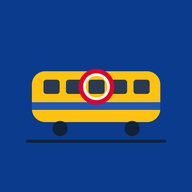
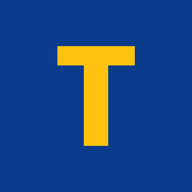
Add files via upload

Changed region(s): [[0.125, 0.2188, 0.875, 0.7812]]

diff --git a/diagnose.html b/diagnose.html
@@ -2,6 +2,8 @@
 <html lang="nl"><head>
 <meta charset="utf-8"><meta name="viewport" content="width=device-width, initial-scale=1"><meta name="robots" content="noindex">
 <title>Treinplek diagnose</title>
+<link rel="icon" type="image/png" sizes="32x32" href="diagnose-32.png">
+<link rel="apple-touch-icon" href="diagnose-180.png">
 <style>
 *{box-sizing:border-box}
 body{margin:0 auto;max-width:520px;padding:16px 16px 48px;font:16px/1.45 system-ui,-apple-system,sans-serif;background:#e8edf3;color:#10213a}
@@ -24,6 +26,8 @@ pre{white-space:pre-wrap;word-break:break-word;background:#fff;border-radius:14p
 <label for="st">Stationscode (voor knop 4)</label>
 <input id="st" value="UT" autocapitalize="characters" spellcheck="false">
 <button id="b4">4. Vertrektijden van dit station</button>
+<button class="licht" id="b5">5. Ruwe treinlijst van NS (zonder gegevens)</button>
+<button class="licht" id="b6">6. Ruwe treinlijst met mijn plek (20 km)</button>
 <h2>Resultaat</h2>
 <div id="status"></div>
 <pre id="uit">Nog niets getest.</pre>
@@ -67,5 +71,11 @@ const nr = () => $("nr").value.replace(/\D/g, "");
 $("b2").onclick = () => nr() ? test("Haltes van rit " + nr(), `/rit?nummer=${nr()}`) : toon(0, "Vul eerst een treinnummer in.");
 $("b3").onclick = () => nr() ? test("Samenstelling van trein " + nr(), `/trein?nummer=${nr()}`) : toon(0, "Vul eerst een treinnummer in.");
 $("b4").onclick = () => test("Vertrektijden " + $("st").value, `/vertrek?station=${encodeURIComponent($("st").value.trim().toUpperCase())}&maxJourneys=5`);
+$("b5").onclick = () => test("Ruwe treinlijst van NS", "/ruw");
+$("b6").onclick = () => {
+  const gebruik = (lat, lng, noot) => test("Ruwe treinlijst met plek" + noot, `/ruw?lat=${lat.toFixed(5)}&lng=${lng.toFixed(5)}&radius=20000&limit=50`);
+  if (!navigator.geolocation) return gebruik(52.0894, 5.1105, " (Utrecht)");
+  navigator.geolocation.getCurrentPosition(p => gebruik(p.coords.latitude, p.coords.longitude, ""), () => gebruik(52.0894, 5.1105, " (Utrecht, locatie geweigerd)"), {timeout: 15000});
+};
 $("kopieer").onclick = async () => { try { await navigator.clipboard.writeText($("uit").textContent); $("kopieer").textContent = "Gekopieerd"; setTimeout(() => $("kopieer").textContent = "Kopieer resultaat", 1500); } catch (_) { alert("Selecteer de tekst en kopieer hem zelf."); } };
 </script></body></html>

diff --git a/index.html b/index.html
@@ -10,7 +10,8 @@
 <meta name="apple-mobile-web-app-status-bar-style" content="black-translucent">
 <link rel="manifest" href="manifest.webmanifest">
 <link rel="apple-touch-icon" href="icon-180.png">
-<link rel="icon" type="image/png" href="icon-192.png">
+<link rel="icon" type="image/png" sizes="32x32" href="favicon-32.png">
+<link rel="icon" href="favicon.ico" sizes="any">
 <title>Waar zit ik in de trein?</title>
 <link rel="preconnect" href="https://fonts.googleapis.com">
 <link href="https://fonts.googleapis.com/css2?family=Barlow:wght@400;600&family=Barlow+Condensed:wght@600;700&display=swap" rel="stylesheet">

diff --git a/VERSIES.md b/VERSIES.md
@@ -12,14 +12,8 @@ Website: https://ns-trein.github.io/Zoeker/ (GitHub Pages)
 
 `index.html` (de app) · `sw.js` (offline) · `manifest.webmanifest` · `icon-*.png` · `plaatjes/` · `diagnose.html` (testpagina) · `worker.js` (Cloudflare, niet op GitHub)
 
-**Controlelijst: dit moet in de map `Zoeker` op GitHub staan** (ontbreekt er iets, zeg het de gebruiker meteen)
-- `index.html`, `sw.js`, `manifest.webmanifest`, `diagnose.html`, `VERSIES.md`
-- `icon-180.png`, `icon-192.png`, `icon-512.png` (app-icoon; zonder deze toont de iPhone een letter "T"), `icon-diagnose.png`
-- map `plaatjes/` met 19 png's (alle namen staan in `sw.js`; ontbreekt er één, dan faalt de offline-cache)
-- Elke Claude ziet alleen wat de gebruiker uploadt: zeg in je antwoord altijd precies welke bestanden veranderd zijn en welke de gebruiker moet uploaden.
-
 ## Log (nieuwste bovenaan)
-- **v19** · 11 okt 2026 · Claude A (gebaseerd op v18 van Claude B, `index.html` ongewijzigd): het app-icoon toonde een "T" omdat `icon-180/192/512.png` en `manifest.webmanifest` niet in de v18-zip zaten (de code verwijst er wel goed naar; iOS maakt zelf een letter als het icoon ontbreekt). Complete set opnieuw meegegeven. Nieuw: `icon-diagnose.png` (oranje tegel met vergrootglas om het app-icoon) voor `diagnose.html`; die regels moeten in de `<head>` van `diagnose.html` (zie antwoord aan gebruiker). `diagnose.html` en `worker.js` van Claude B zijn niet geüpload en dus niet aangeraakt. Controlelijst met bestanden toegevoegd.
+- **v19** · 10 okt 2026 · Claude B: eenvoudige iconen: een gele **T** op blauw voor de app (`icon-180/192/512.png`, nieuw `favicon-32.png` en `favicon.ico`, gekoppeld in `index.html`) en een witte **D** op rood voor `diagnose.html` (`diagnose-32.png`, `diagnose-180.png`, gekoppeld in `diagnose.html`), zodat de tabbladen op de Mac uit elkaar te houden zijn. Het manifest is niet veranderd (zelfde bestandsnamen); `VERSIE` omhoog zodat de oude iconen uit de offline-cache verdwijnen. De oude trein-tekening in de iconen was op 16 pixels niet te zien.
 - **v18** · 10 okt 2026 · Claude B: antwoorden van de gebruiker verwerkt. (1) ICNG-D (3351-3362) staat nu op flow. (2) VIRM-varianten voor het Treinstel-tabblad (bronnen: Treinenweb, martijnvanvulpen.nl): alle VIRM-2/3 zijn sinds juni 2021 gemoderniseerd en hebben de flow-kleuring (8701-8746 en 9501-9546 staan nu standaard op flow); VIRM-1 (8601-8681, 9401-9481) is gemoderniseerd in de oude kleuring; VIRM-4 (9547-9597) wordt pas in 2026-2028 omgebouwd, dus alleen een deel is flow (staat op standaard). Bij echte treinen kiest NS zelf het plaatje (`afbeelding`), dus daar is geen lijst nodig. (3) Getekende zijaanzichten (`svgGetekend`, `TEKEN`) voor WINK, Arriva-FLIRT, Valleilijn-FLIRT en TGV; de reeksen kregen daarvoor een groepsnaam (WINK, FLIRT-A, FLIRT-V, TGV) zodat de Treinstel-zoeker ze niet meer "geen plaatje" noemt. Kleuren zijn bij benadering. `worker.js` is niet veranderd (v17).
 - **v17** · 10 okt 2026 · Claude B: echte antwoorden van /trein (3084) en /rit bekeken. (1) `rijrichting` ("RECHTS") bepaalt nu automatisch of de trein omgedraaid getoond wordt (RECHTS = voorkant rechts in het NS-plaatje); "Draai trein om" blijft als correctie. (2) `leesTrein` neemt `type` en `materieelnummer` van elk deel over, dus de kop wordt "Deel 1: VIRMm1 VI (8666)"; de NS-lijst staat achterstevoren (achterste deel eerst) en wordt daardoor goed omgedraaid. (3) `bakken` in het NS-antwoord is een lijst lege objecten (alleen het aantal telt); voor NS-plaatjes met dezelfde breedte en hetzelfde aantal bakken als een plaatje in `PLAATJES` worden de bekende bakgrenzen gebruikt, anders gelijke stukken. (4) `worker.js` /plaatje laat nu ook `vt.ns-mlab.nl` toe (daar staan de NS-plaatjes, zoals `virmm1_6.png`; eerst zonder sleutel). Getest met het echte antwoord van 3084 in een nagebootste Worker.
 - **v16 (aanvulling)** · 10 okt 2026 · Claude B: geen codewijziging. De gebruiker bevestigt met een schermafdruk (23:45) dat Automatisch echte treinen toont met afstand, vertrektijd, vorige en volgende halte (SPR naar Arnhem Centraal 770 m, IC naar Zwolle 2,5 km, IC naar Nijmegen 2,7 km). Dus /nabij (via `/virtual-train-api/vehicle`) en /rit werken met de echte sleutel. De eerdere uitslag "16 treinen, niets binnen 5 km" kwam waarschijnlijk door het tijdstip. Worker v16 (testroute /ruw, knop 5 en 6 in diagnose.html) is niet nodig om de app te laten werken.
